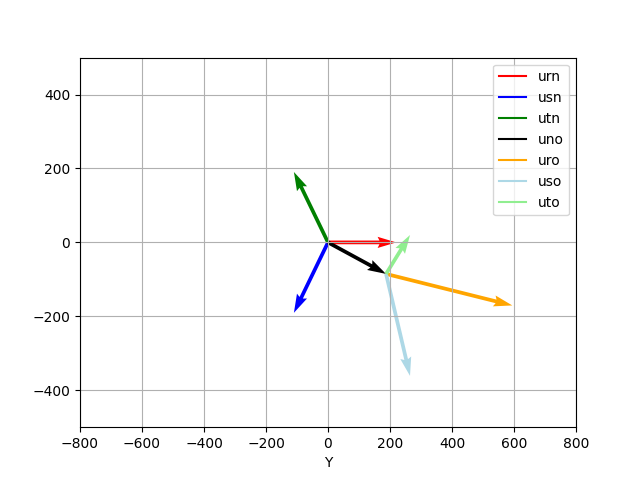
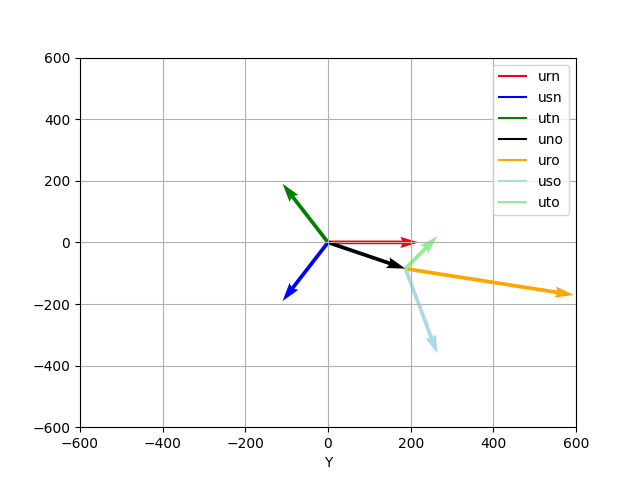
improvement del reporte generado

diff --git a/desbalanceada.py b/desbalanceada.py
@@ -4,8 +4,11 @@ import math as m
 import numpy as np
 from reportlab.pdfgen.canvas import Canvas
 from reportlab.lib.units import cm, inch
+from reportlab.lib.pagesizes import A4
 from PIL import *
 from reportlab.lib.utils import ImageReader
+from reportlab.pdfbase import pdfmetrics
+from reportlab.pdfbase.ttfonts import TTFont
 import configparser
 
 '''PASAJE DE RADIAN A DEGREE'''
@@ -14,6 +17,10 @@ degtor= m.pi/180
 '''FORMATS PARA MOSTRAR DATOS'''
 degfor= "{:.3f}"
 modfor="{:.5f}"
+
+'''REGISTRO DE FUENTES TTF'''
+pdfmetrics.registerFont(TTFont('ISOCPEUR','ISOCPEUR.ttf'))
+
 
 
 '''LEO EL ARCHIVO DE CONFIG PARA CARGA DE DATOS'''
@@ -106,8 +113,8 @@ def plotFasorial():
     ax.quiver(float(uno['x']),float(uno['y']),float(uro['x']),float(uro['y']),angles='xy',scale_units='xy',scale=1,color="orange")   
     ax.quiver(float(uno['x']),float(uno['y']),float(uso['x']),float(uso['y']),angles='xy',scale_units='xy',scale=1,color="lightblue")
     ax.quiver(float(uno['x']),float(uno['y']),float(uto['x']),float(uto['y']),angles='xy',scale_units='xy',scale=1,color="lightgreen")
-    ax.set_xlim(-800,800)
-    ax.set_ylim(-500,500)
+    ax.set_xlim(-600,600)
+    ax.set_ylim(-600,600)
     plt.xlabel("X")
     plt.xlabel("Y")
     ax.plot([],[],color="red",label="urn")
@@ -122,7 +129,7 @@ def plotFasorial():
     plt.savefig("fasorial.png")
     #plt.show()
 
-'''PLOTEO DE GRAICO EN FORMA DE TRIANGULO'''
+'''PLOTEO DE GRAICO EN FORMA DE TRIANGULO''' #TODO SECUENCIA NEGATIVA
 def plotTriangulo(secuencia):
     bx=plt.subplot()
     bx.clear()
@@ -175,32 +182,44 @@ def plotTriangulo(secuencia):
 
     bx.quiver(float(urn['x']),float(urn['y']),float(uno['x']),float(uno['y']),angles='xy',scale_units='xy',scale=1,color="black")
     
-    bx.set_xlim(-450,450)
-    bx.set_ylim(-450,450)
+    bx.set_xlim(-525,525)
+    bx.set_ylim(-525,525)
 
     
     plt.savefig("triangulo.png")
-    plt.show()
+    #plt.show()
 
 '''GENERO REPORTE PDF'''
 def generarReporte():
     canvas=Canvas("Reporte.pdf")
-    canvas.drawString(18,11.5 * inch,"Valores de impedancias y voltajes cargados: ")
-    canvas.drawString(18,11.0*inch,f"URN= {modfor.format(urn['r'])} ; {degfor.format(urn['a']*rtodeg)}    USN= {modfor.format(usn['r'])} ; {degfor.format(usn['a']*rtodeg)}     UTN= {modfor.format(utn['r'])} ; {degfor.format(utn['a']*rtodeg)}")
-    canvas.drawString(18,10.75 *inch,f"URS= {modfor.format(urs['r'])} ; {degfor.format(urs['a']*rtodeg)}    UST= {modfor.format(ust['r'])} ; {degfor.format(ust['a']*rtodeg)}     UTR= {modfor.format(utr['r'])} ; {degfor.format(utr['a']*rtodeg)}")
-    canvas.drawString(18,10.5*inch,f"ZR= ({modfor.format(zr['x'])}; {modfor.format(zr['y'])}) ======> {modfor.format(zr['r'])} ; {degfor.format(zr['a']*rtodeg)}")
-    canvas.drawString(18,10.25*inch,f"ZS= ({modfor.format(zs['x'])}; {modfor.format(zs['y'])}) ======> {modfor.format(zs['r'])} ; {degfor.format(zs['a']*rtodeg)}")
-    canvas.drawString(18,10.0*inch,f"ZT= ({modfor.format(zt['x'])}; {modfor.format(zt['y'])}) ======> {modfor.format(zt['r'])} ; {degfor.format(zt['a']*rtodeg)}")
+    canvas.setFont('ISOCPEUR',32)
+    canvas.drawString(2.54*cm,A4[1] - 0.5*inch-20,"Valores de Voltajes cargados: ")
+    postTitle=A4[1] - 0.5*inch - 20
+    canvas.setFont('ISOCPEUR',14)
+    canvas.drawString(2.54*cm,postTitle-1.15*cm,f"URN= {modfor.format(urn['r'])}V ; {degfor.format(urn['a']*rtodeg)}°    USN= {modfor.format(usn['r'])}V ; {degfor.format(usn['a']*rtodeg)}°     UTN= {modfor.format(utn['r'])}V ; {degfor.format(utn['a']*rtodeg)}°")
+    canvas.drawString(2.54*cm,postTitle-1.15*cm-18,f"URS= {modfor.format(urs['r'])}V ; {degfor.format(urs['a']*rtodeg)}°    UST= {modfor.format(ust['r'])}V ; {degfor.format(ust['a']*rtodeg)}°     UTR= {modfor.format(utr['r'])}V ; {degfor.format(utr['a']*rtodeg)}°")
+    posTitle2=postTitle-1.5*cm-18
+    canvas.setFont('ISOCPEUR',32)
+    canvas.drawString(2.54*cm,posTitle2-20,"Valores de Impedancias cargados: ")
+    postTitle2=posTitle2-20
+    canvas.setFont('ISOCPEUR',14)
+    canvas.drawString(2.54*cm,postTitle2-1.15*cm-18,f"ZR= ({modfor.format(zr['x'])}; j{modfor.format(zr['y'])}) ======> {modfor.format(zr['r'])} ; {degfor.format(zr['a']*rtodeg)}°")
+    canvas.drawString(2.54*cm,postTitle2-1.15*cm-2*18,f"ZS= ({modfor.format(zs['x'])}; j{modfor.format(zs['y'])}) ======> {modfor.format(zs['r'])} ; {degfor.format(zs['a']*rtodeg)}°")
+    canvas.drawString(2.54*cm,postTitle2-1.15*cm-3*18,f"ZT= ({modfor.format(zt['x'])}; j{modfor.format(zt['y'])}) ======> {modfor.format(zt['r'])} ; {degfor.format(zt['a']*rtodeg)}°")
 
+
+    #canvas.drawString(2.54*cm,0.5*inch,"_________________________________A__________________________________________")
     im1=ImageReader("fasorial.png")
-    canvas.drawImage(im1,0,72,mask="auto")
+    size1=im1.getSize()
+    canvas.drawImage(im1,-5,0.5*inch,mask="auto",preserveAspectRatio="true")
     canvas.showPage()
+    #canvas.drawString(2.54*cm,A4[1]-0.5*inch,"________________________________________A_____________________________________________________-")
     im2=ImageReader("triangulo.png")
     canvas.drawImage(im2,0,72,mask="auto")
     canvas.save()
 
 '''INICIALIZO LOS VOLTAJES SEGUN CONFIG'''
-def iniciarVoltajes(v,op,phi):
+def iniciarVoltajes(v,op,phi):#TODO REVISAR SECUENCIA NEGATIVA
     if(op == 1):
         crearPol(urn,v,phi)
         crearPol(usn,v,(phi+240))
@@ -216,6 +235,47 @@ def iniciarVoltajes(v,op,phi):
         resta(usr,usn,urn)
         resta(urt,urn,utn)
 
+#INGRESO DE DATOS DE IMPEDANCIAS
+def cargarImpedancias():
+    print("===========================INGRESO DE DATOS DE IMPEDANCIAS============================")
+    print("Seleccione sobre las siguientes opciones: ")
+    print("Opcion 1: Carga de impedancias en Polar \nOpcion 2: Carga de impedancias en Rectangular")
+    opcionImp=int(input("Ingrese la opcion deseada: "))
+    if(opcionImp == 1):
+        r=float(input("Ingrese el valor del modulo de Zr: "))
+        a=float(input("Ingrese el valor del argumento de Zr:"))
+        print(f"los valores ingresador son: {r}, {a}")
+        crearPol(zr,r,a)
+        r=float(input("Ingrese el valor del modulo de Zs: "))
+        a=float(input("Ingrese el valor del argumento de Zs: "))
+        print(f"los valores ingresador son: {r}, {a}")
+        crearPol(zs,r,a)
+        r=float(input("Ingrese el valor del modulo de Zt: "))
+        a=float(input("Ingrese el valor del argumento de Zt: "))
+        print(f"los valores ingresador son: {r}, {a}")
+        crearPol(zt,r,a)
+
+    if(opcionImp == 2):
+        x=float(input("Ingrese el valor de la parte real de Zr: "))
+        y=float(input("Ingrese el valor de la parte imaginaria de Zr:"))
+        print(f"los valores ingresador son: {x}, {y}")
+        crearRec(zr,x,y)
+        x=float(input("Ingrese el valor de la parte real de Zs: "))
+        y=float(input("Ingrese el valor de la parte imaginaria de Zs: "))
+        print(f"los valores ingresador son: {x}, {y}")
+        crearRec(zs,x,y)
+        x=float(input("Ingrese el valor de la parte real de Zt: "))
+        y=float(input("Ingrese el valor de la parte imaginaria de Zt: "))
+        print(f"los valores ingresador son: {x}, {y}")
+        crearRec(zt,x,y)
+
+    if(opcionImp==3):
+        crearRec(zr,15,20)
+        crearRec(zs,15,-15)
+        crearRec(zt,25,40)
+        mostrar(zr)
+        mostrar(zs)
+        mostrar(zt)
     
 
 
@@ -240,46 +300,9 @@ mostrar(urs)
 mostrar(ust)
 mostrar(utr)
 
-#INGRESO DE DATOS DE IMPEDANCIAS
-print("===========================INGRESO DE DATOS DE IMPEDANCIAS============================")
-print("Seleccione sobre las siguientes opciones: ")
-print("Opcion 1: Carga de impedancias en Polar \nOpcion 2: Carga de impedancias en Rectangular")
-opcionImp=int(input("Ingrese la opcion deseada: "))
-if(opcionImp == 1):
-    r=float(input("Ingrese el valor del modulo de Zr: "))
-    a=float(input("Ingrese el valor del argumento de Zr:"))
-    print(f"los valores ingresador son: {r}, {a}")
-    crearPol(zr,r,a)
-    r=float(input("Ingrese el valor del modulo de Zs: "))
-    a=float(input("Ingrese el valor del argumento de Zs: "))
-    print(f"los valores ingresador son: {r}, {a}")
-    crearPol(zs,r,a)
-    r=float(input("Ingrese el valor del modulo de Zt: "))
-    a=float(input("Ingrese el valor del argumento de Zt: "))
-    print(f"los valores ingresador son: {r}, {a}")
-    crearPol(zt,r,a)
+#CARGO LOS VALORES DE LAS IMPEDANCIAS DE FASE
+cargarImpedancias()
 
-if(opcionImp == 2):
-    x=float(input("Ingrese el valor de la parte real de Zr: "))
-    y=float(input("Ingrese el valor de la parte imaginaria de Zr:"))
-    print(f"los valores ingresador son: {x}, {y}")
-    crearRec(zr,x,y)
-    x=float(input("Ingrese el valor de la parte real de Zs: "))
-    y=float(input("Ingrese el valor de la parte imaginaria de Zs: "))
-    print(f"los valores ingresador son: {x}, {y}")
-    crearRec(zs,x,y)
-    x=float(input("Ingrese el valor de la parte real de Zt: "))
-    y=float(input("Ingrese el valor de la parte imaginaria de Zt: "))
-    print(f"los valores ingresador son: {x}, {y}")
-    crearRec(zt,x,y)
-
-if(opcionImp==3):
-    crearRec(zr,15,20)
-    crearRec(zs,15,-15)
-    crearRec(zt,25,40)
-    mostrar(zr)
-    mostrar(zs)
-    mostrar(zt)
     
 #Obtengo las admitancias de cada impedancia 
 yr=dict()
@@ -311,7 +334,3 @@ plotTriangulo(secuencia)
 generarReporte()
 
 
-#crearRec(zr,3,4)
-#crearPol(z2,5,-53.13*m.pi/180)
-#suma(zt,zr,z2)
-#producto(zp,zr,z2)
